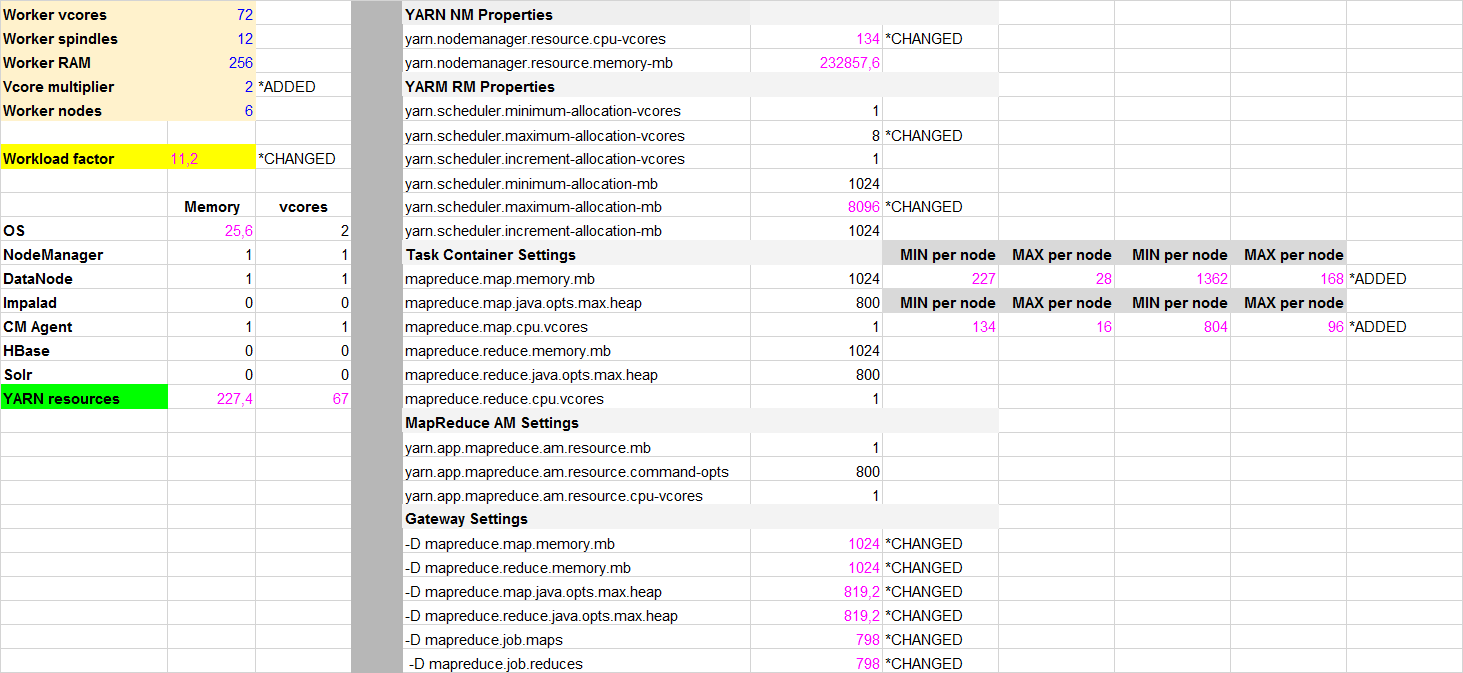
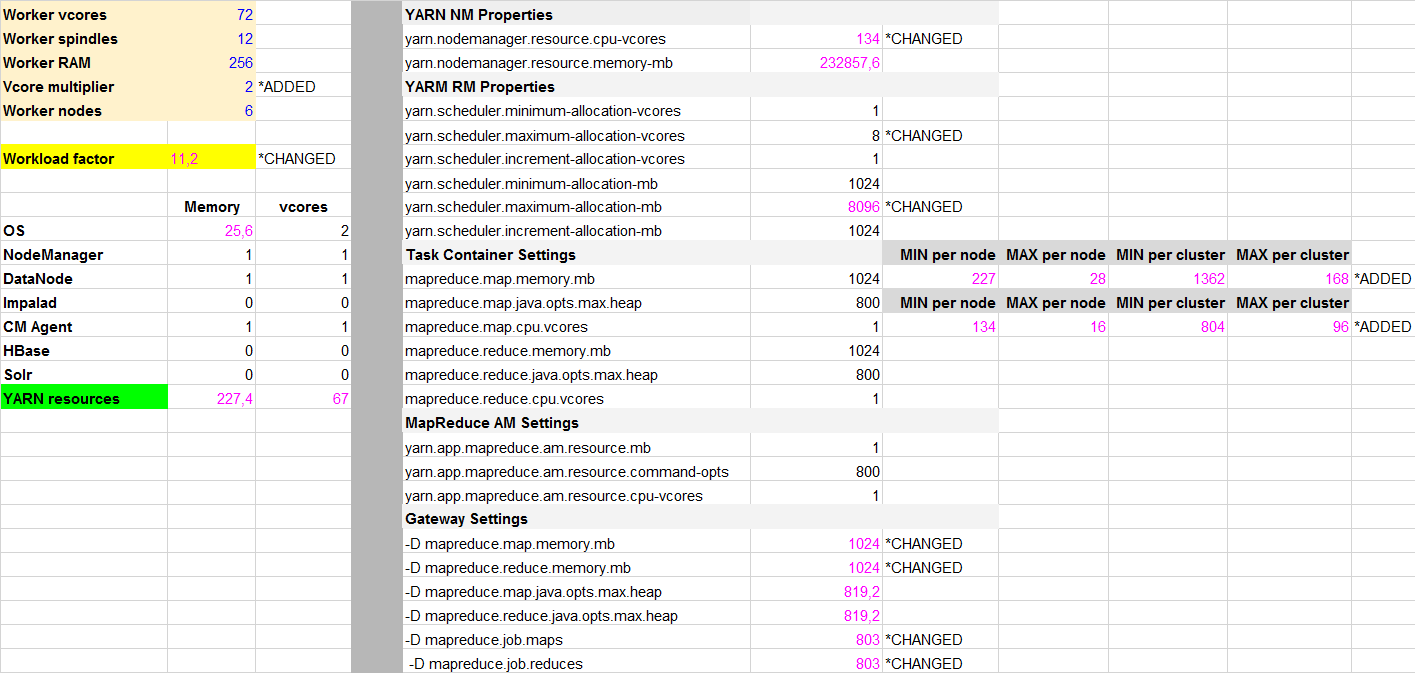
Tracking work on resources labs

diff --git a/resources/labs/0_YarnCalcs.md b/resources/labs/0_YarnCalcs.md
@@ -1,14 +1,16 @@
 #YARN/RM Lab: Doing the Math
 
-* Motivation: My goal was to identify maximum number of containersr that could run in parallel during terasort and teragen tests*
+_Motivation: My goal was to identify maximum number of containers that could run in parallel during terasort and teragen tests._
 **Lab assumptions:**
-  - No more than one MR job will run at any time (FIFO scheduler style :) )
-  - Settings are optimized for artificial teragen tests only
-  - I assume that value in Worker vcores represents physical cores
+- No more than one MR job will run at any time (FIFO scheduler style :) )
+- Settings are optimized for artificial teragen tests only
+- I assume that value in Worker vcores represent physical cores
 
 ## Changes to calculation sheet
 <center><img src="1_YARNCalcs.png" /></center>
+
 *Values/Formulas I changed are marked as CHANGED*
+
 *Values/Formulas I added are marked as ADDED*
 
 - **Vcore multiplier:** I added vcore multiplier to calculate yarn.nodemanager.resource.cpu-vcores. This could be higher than number of physical cores and some workloads may benefit from it.
@@ -25,7 +27,9 @@
 ## Workload explanation
 
 804 containers could run in parallel on given cluster.
+
 Vcores per spindle ratio is very high and any write heavy tasks like Teragen will probably end with CPU stuck at io_wait.
+
 This setup may work much better for computation tasks (deep learning, simulations, etc.).
 
   
